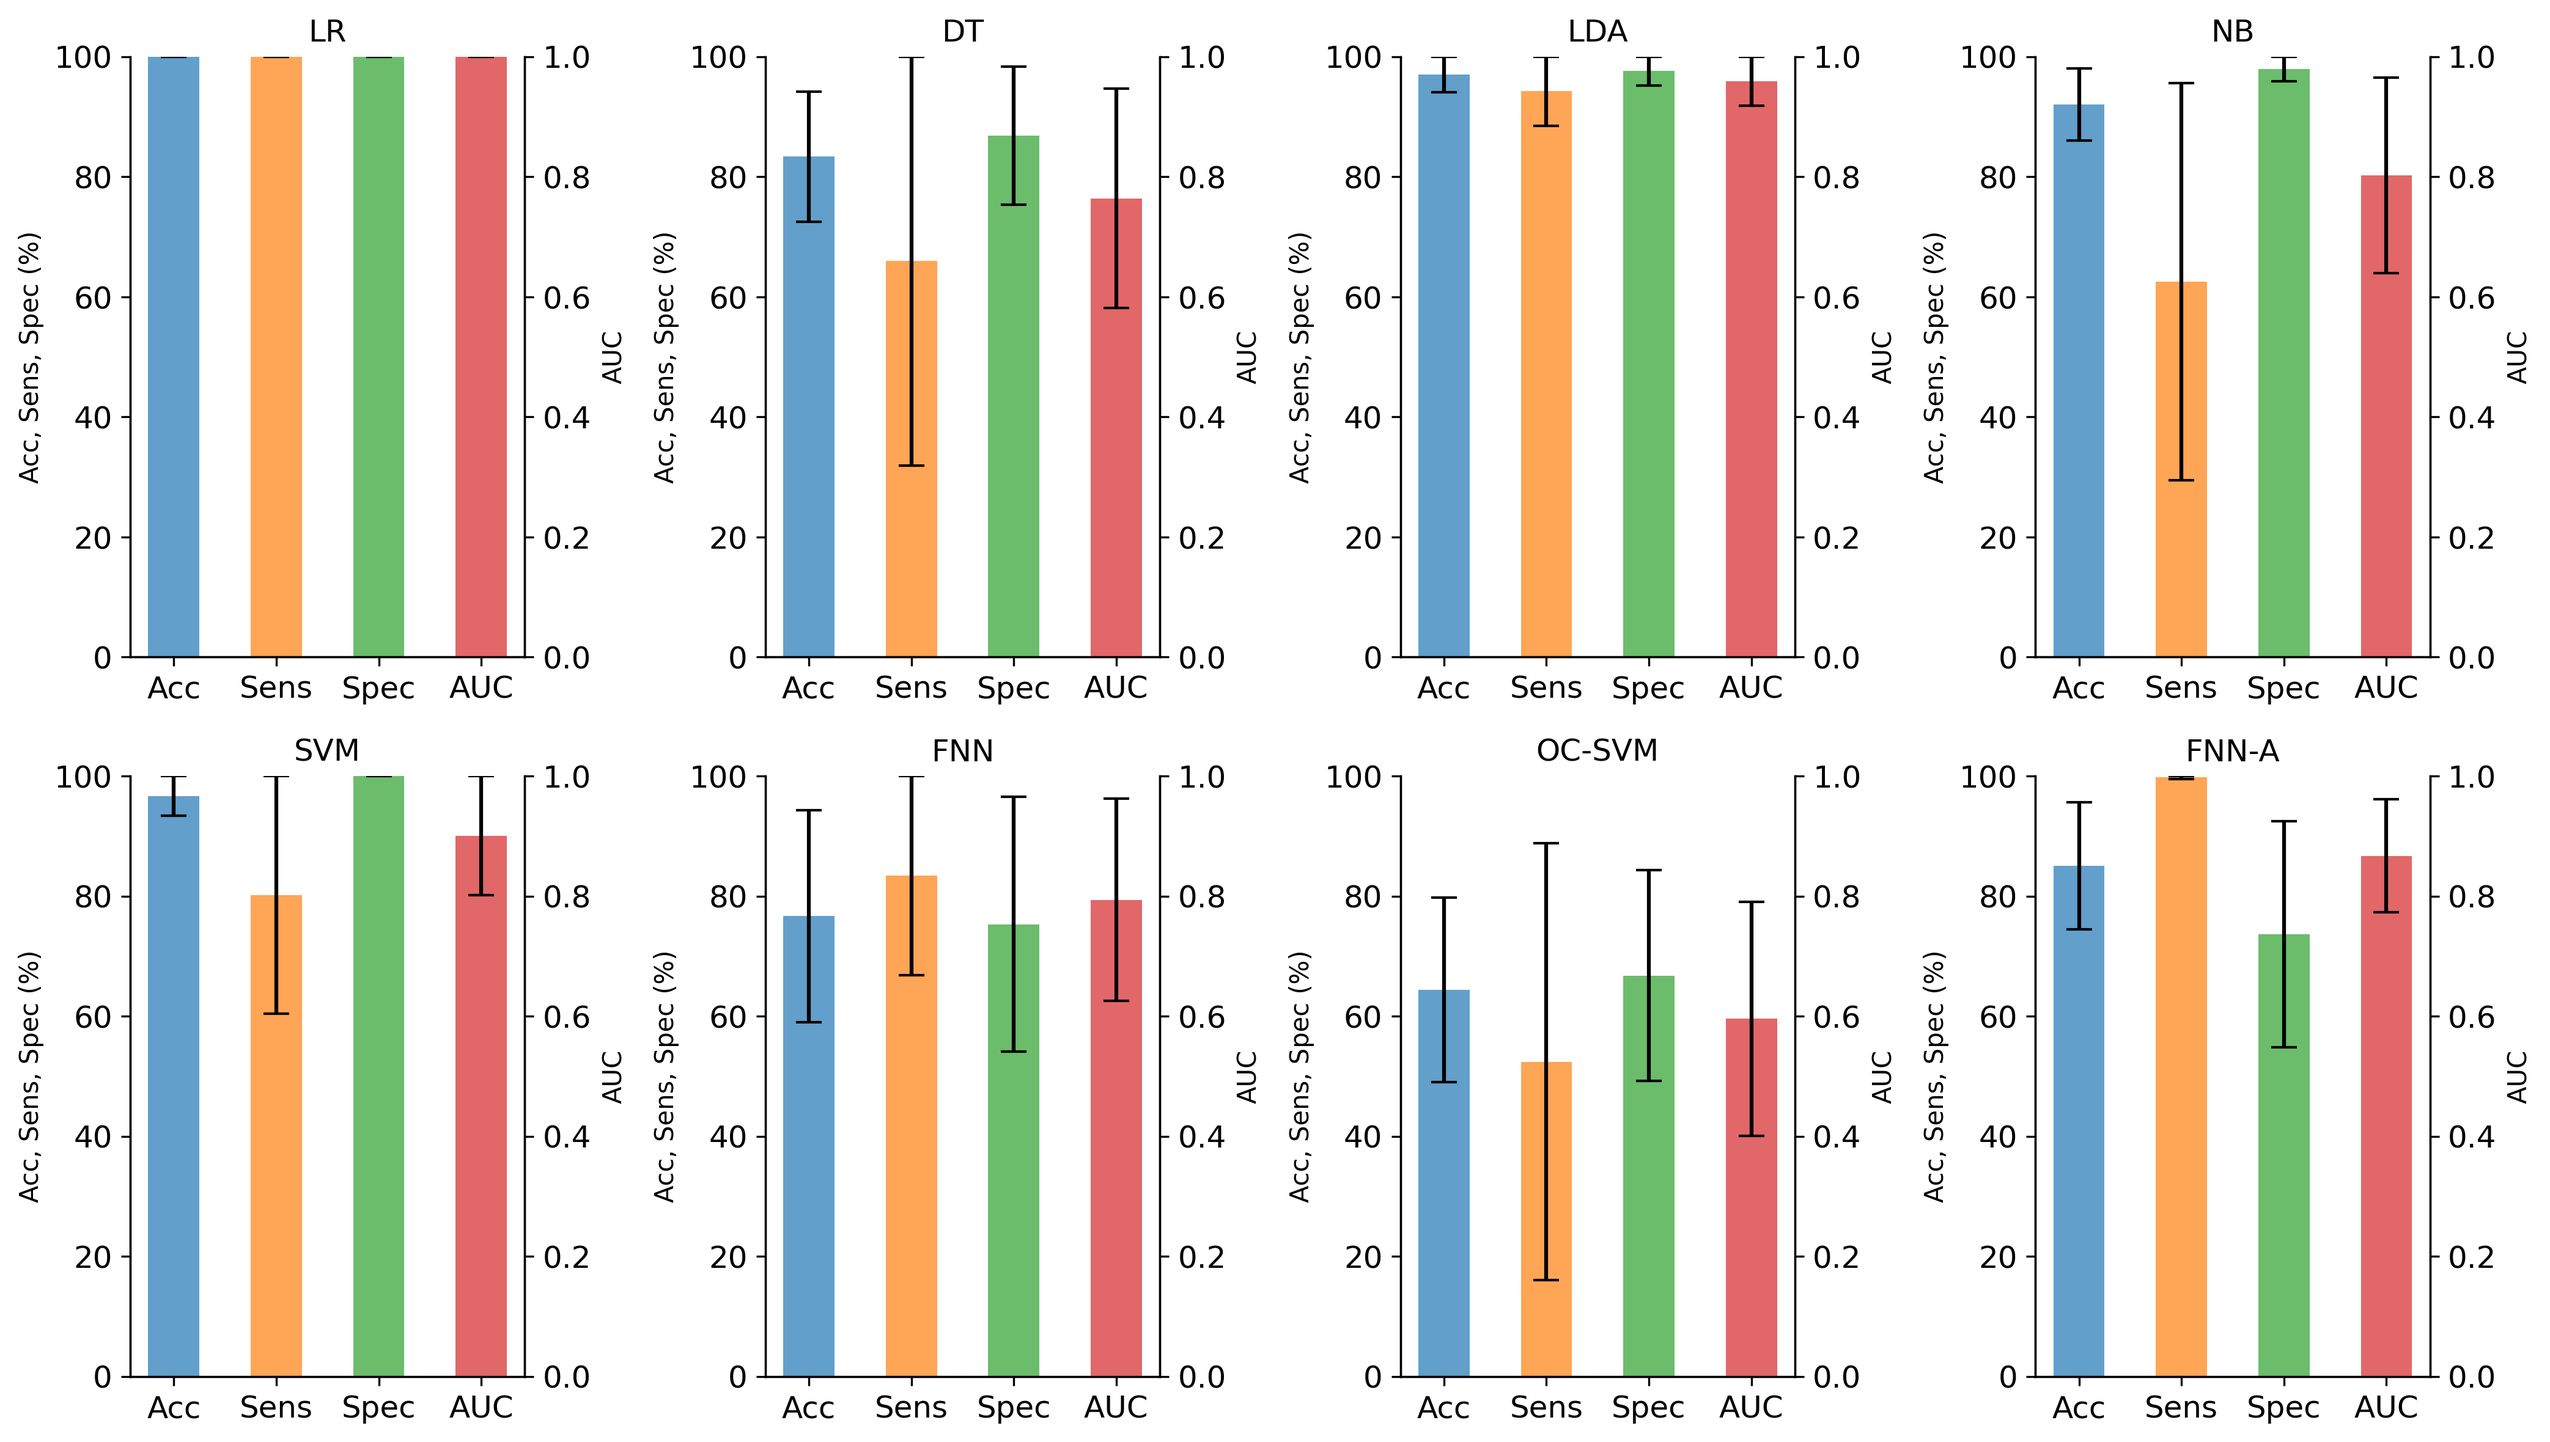
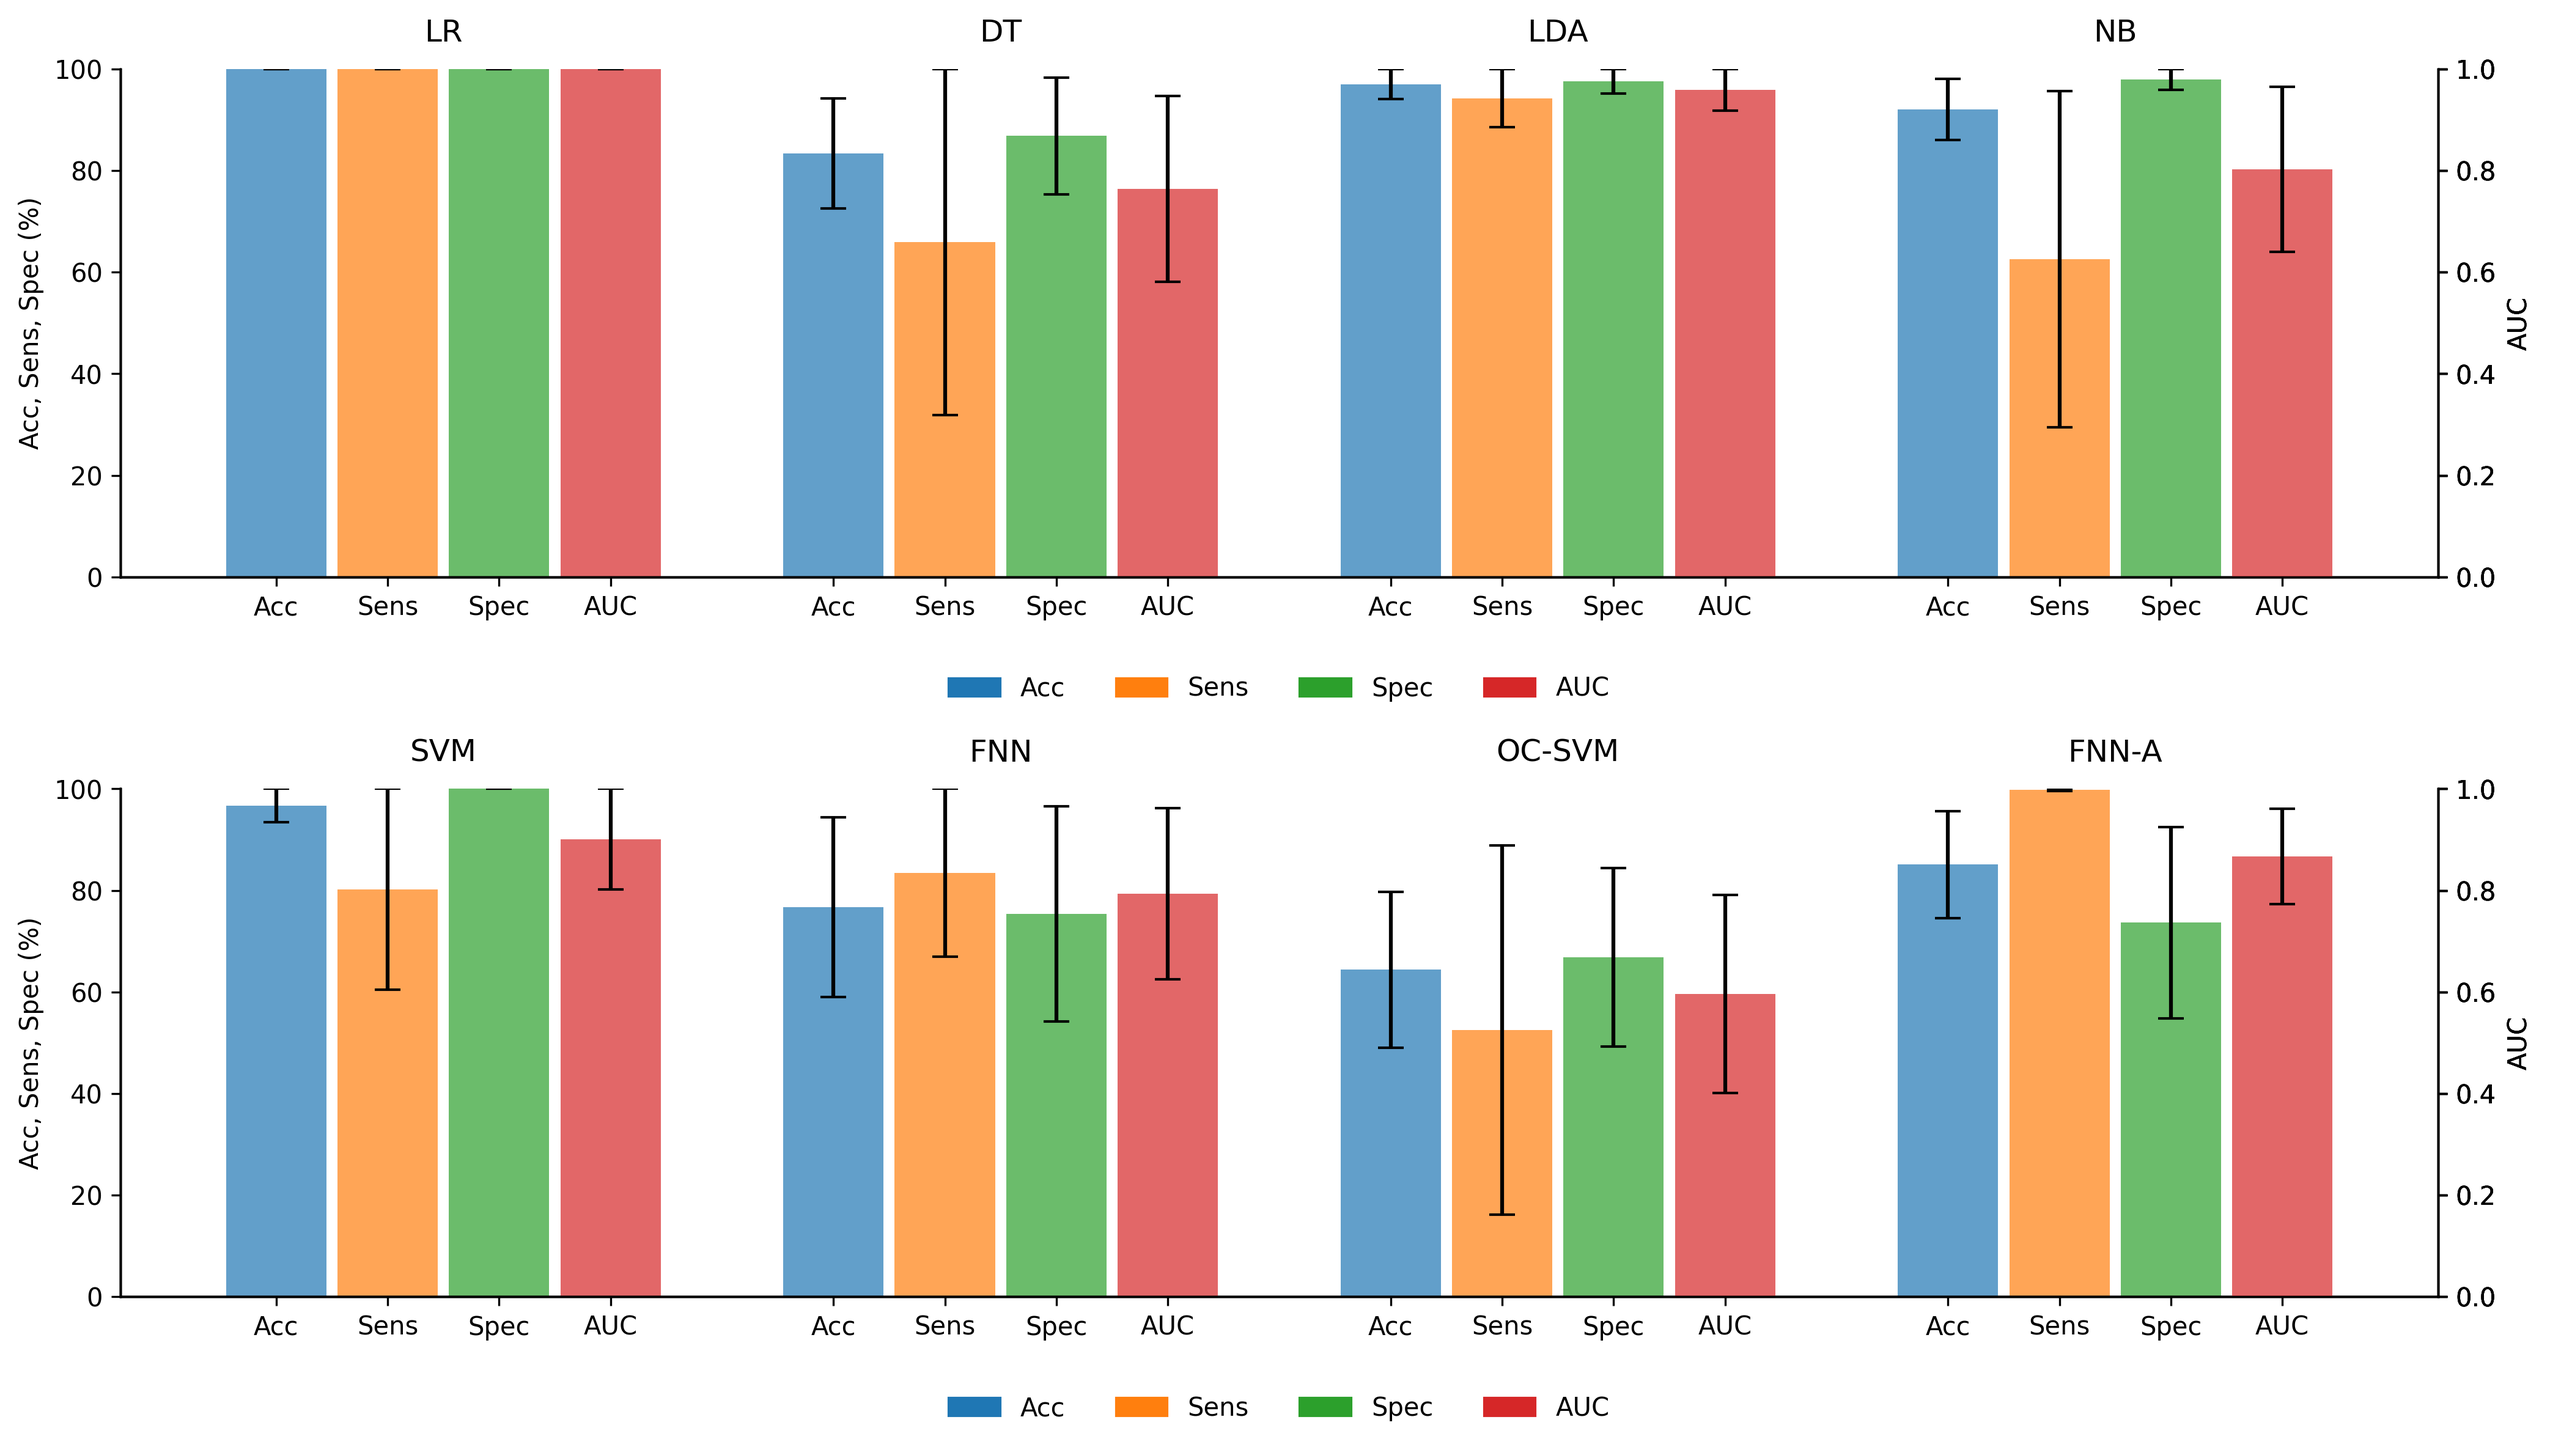
Bar charts update

diff --git a/Fig3_results_bar_charts.py b/Fig3_results_bar_charts.py
@@ -24,7 +24,7 @@ cmap = plt.get_cmap('tab10')
 colors = [cmap(i) for i in range(4)]
 
 
-def plot_barchart(ax, data, title):
+def plot_barchart(ax, el, data, title):
     mean_values = [np.mean(metric) for metric in data]
     std_values = [np.std(metric) for metric in data]
 
@@ -33,13 +33,13 @@ def plot_barchart(ax, data, title):
     right_ylim = 1.0  # Maximum for right Y-axis (AUC)
 
     # Plot Acc, Sens, Spec on left Y-axis
-    bar_positions = np.arange(len(mean_values))
+    bar_positions = np.arange(len(mean_values)) + (4*el) + el
     capped_std_left = [
         min(std, (left_ylim - 100 * mean) / 100) if 100 * mean + 100 * std > left_ylim else std
         for mean, std in zip(mean_values[:3], std_values[:3])
     ]
     ax.bar(bar_positions[:3], [100 * mean for mean in mean_values[:3]], align='center', alpha=0.7,
-           color=colors[:3], ecolor='black', capsize=5, width=0.5, label='Acc, Sens, Spec')
+           color=colors[:3], ecolor='black', capsize=5, width=0.9, label='Acc, Sens, Spec')
     ax.errorbar(bar_positions[:3], [100 * mean for mean in mean_values[:3]],
                 yerr=[100 * std for std in capped_std_left], fmt='none', ecolor='black', capsize=5)
 
@@ -53,19 +53,21 @@ def plot_barchart(ax, data, title):
         for mean, std in zip(mean_values[3:], std_values[3:])
     ]
     ax2.bar(bar_positions[3:], mean_values[3:], align='center', alpha=0.7,
-            color=colors[3], ecolor='black', capsize=5, width=0.5, label='AUC')
+            color=colors[3], ecolor='black', capsize=5, width=0.9, label='AUC')
     ax2.errorbar(bar_positions[3:], mean_values[3:], yerr=capped_std_right, fmt='none', ecolor='black', capsize=5)
 
     ax2.set_ylabel("AUC")
     ax2.set_ylim(0, right_ylim)
 
-    ax.set_title(title)
-    ax.set_xticks(bar_positions)
-    ax.set_xticklabels(['Acc', 'Sens', 'Spec', 'AUC'])
+    group_center = (bar_positions[0] + bar_positions[-1]) / 2  # Center of the group
+    ax.text(group_center, 110.0, title, ha="center", va="top", fontsize=12)
+    
 
     # Remove only the top frame line, retain error bar caps
     ax.spines['top'].set_visible(False)
     ax2.spines['top'].set_visible(False)
+
+    return bar_positions.tolist()
 
 
 datasets = [5, 10, 20]
@@ -84,18 +86,29 @@ for number_of_features in datasets:
              6: 'OC-SVM', 7: 'FNN-A'}
 
     # Set up 2x4 subplot layout
-    fig, axs = plt.subplots(2, 4, figsize=(14, 8), constrained_layout=True)
+    fig, axs = plt.subplots(2, 1, figsize=(14, 8), constrained_layout=True)
+    
+    # DBS_outcome_prediction_accuracy(accs[el], sens[el], spes[el], aucs[el], names[el])
 
-    for i, el in enumerate([0, 1, 2, 3, 4, 5, 6, 7]):
-        DBS_outcome_prediction_accuracy(accs[el], sens[el], spes[el], aucs[el], names[el])
+    # Map each subplot index to its location in the 2x4 grid
+    all_bar_positions = []
+    for el in range(4):
+        all_bar_positions += plot_barchart(axs[0], el, [accs[el], sens[el], spes[el], aucs[el]], names[el])
+        plot_barchart(axs[1], el, [accs[el+4], sens[el+4], spes[el+4], aucs[el+4]], names[el+4])
 
-        # Map each subplot index to its location in the 2x4 grid
-        ax = axs[i // 4, i % 4]
-        plot_barchart(ax, [accs[el], sens[el], spes[el], aucs[el]], names[el])
+    axs[0].set_xticks(all_bar_positions)
+    axs[0].set_xticklabels(['Acc', 'Sens', 'Spec', 'AUC'] * 4)
+    axs[1].set_xticks(all_bar_positions)
+    axs[1].set_xticklabels(['Acc', 'Sens', 'Spec', 'AUC'] * 4)
 
+    # Create a legend mapping colors to metrics
+    legend_labels = [plt.Rectangle((0, 0), 1, 1, color=color) for color in colors]
+    axs[0].legend(legend_labels, ['Acc', 'Sens', 'Spec', 'AUC'], bbox_to_anchor=(0.5, -0.15), loc='upper center', ncol=4, frameon=False)
+    axs[1].legend(legend_labels, ['Acc', 'Sens', 'Spec', 'AUC'], bbox_to_anchor=(0.5, -0.15), loc='upper center', ncol=4, frameon=False)
+    
     plt.tight_layout()
 
     figpath = os.path.join("figures", "Fig3_Bar_charts_" + str(number_of_features) + "_features.png")
     fig.savefig(figpath, dpi=300, bbox_inches='tight', format='png')
-    plt.show()
+    # plt.show()
         
